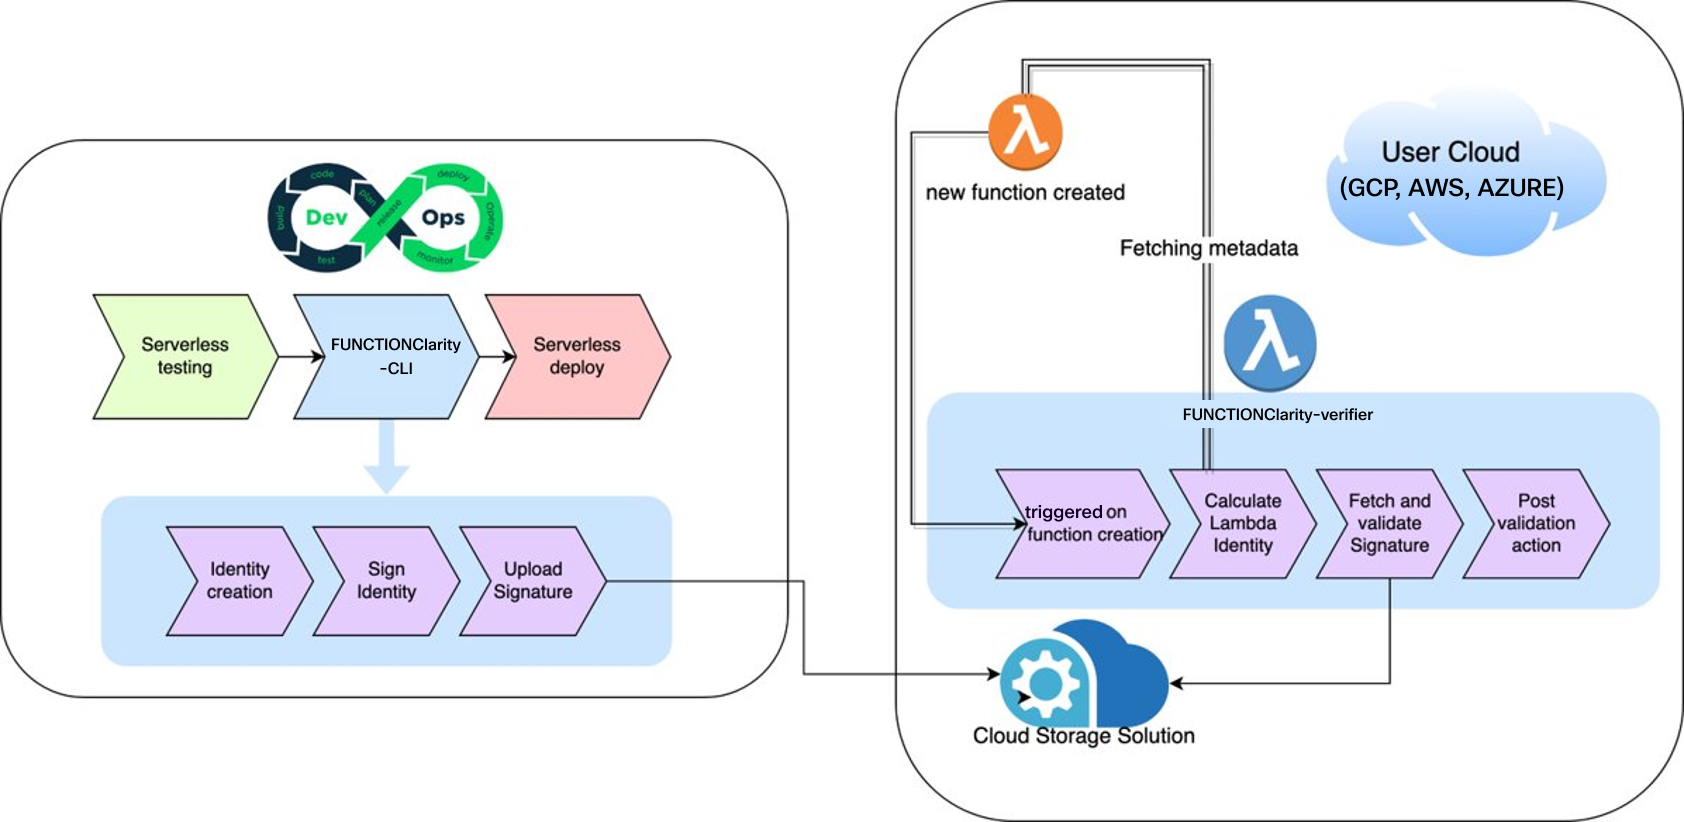
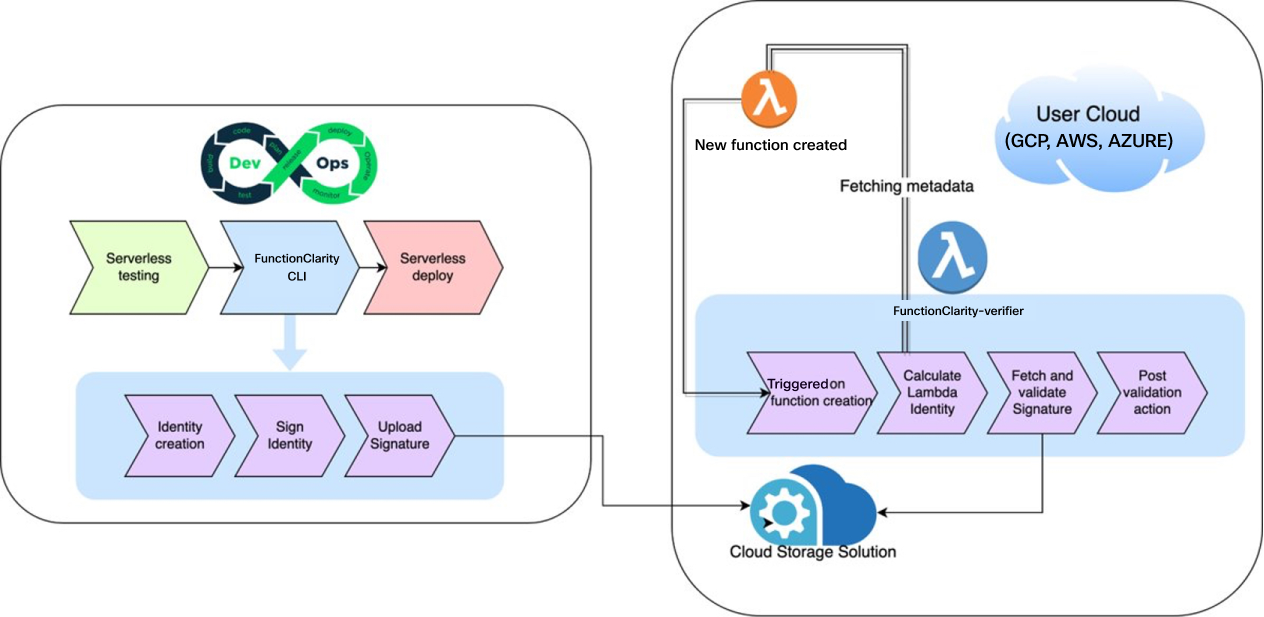
update image and nav bar (#18)
* update image and nav bar

* update links

diff --git a/components/globals/Navbar.tsx b/components/globals/Navbar.tsx
@@ -1,15 +1,23 @@
-import React from "react";
+import React, { useState } from "react";
 import Image from "next/image";
 import Link from "next/link";
 import styles from "../../styles/layout/Navbar.module.scss";
 import { useRouter } from "next/router";
-import { Colors, ImgPaths, RouteNames, RouterPaths } from "../../types/enums";
+import {
+  DocsRoutes,
+  ImgPaths,
+  RouteNames,
+  RouterPaths,
+} from "../../types/enums";
 import useWindowSize from "../../hooks/useWindowSize";
 import { AiFillGithub } from "react-icons/ai";
 import Container from "../Container";
+import NavDropdownItem from "./NavDropdownItem";
+import NavItem from "./NavItem";
 
 const Navbar = () => {
   const router = useRouter();
+  const [isDocsOpen, setIsDocsOpen] = useState(false);
 
   return (
     <div className={styles.Navbar}>
@@ -25,29 +33,36 @@ const Navbar = () => {
             </a>
           </Link>
           <div className={styles.NavbarNavlinkContainer}>
-            {Object.keys(RouteNames).map((path) => {
-              return (
-                <NavLink
-                  route={RouterPaths[path]}
-                  routeName={RouteNames[path]}
-                  key={path}
-                />
-              );
-            })}
-            <a
-              target="_blank"
-              href="https://github.com/apiclarity/apiclarity"
-              className={styles.NavbarNavlinkIconLink}
+            <NavItem
+              route={RouterPaths.Landing}
+              routeName={RouteNames.Landing}
+            />
+            <div
+              onMouseLeave={() => setIsDocsOpen(false)}
+              onMouseEnter={() => setIsDocsOpen(true)}
+              className={styles.NavbarNavlinkMenu}
             >
-              <AiFillGithub
-                className={styles.NavbarNavlinkIcon}
-                color={
-                  router.pathname === RouterPaths.Landing
-                    ? Colors.White
-                    : Colors.TextDark
-                }
-              />
-            </a>
+              <NavItem routeName={RouteNames.Docs} hasDropdown={true} />
+              {isDocsOpen && (
+                <div
+                  className={styles.NavbarNavlinkMenuDropDown}
+                >
+                  {Object.keys(DocsRoutes).map((item, i) => (
+                    <NavDropdownItem
+                      link={DocsRoutes[item]}
+                      text={item}
+                      internal={false}
+                      key={i}
+                    />
+                  ))}
+                </div>
+              )}
+            </div>
+            <NavItem
+              route={RouterPaths.Resources}
+              routeName={RouteNames.Resources}
+              openNewWindow={true}
+            />
           </div>
         </div>
       </Container>
@@ -55,35 +70,4 @@ const Navbar = () => {
   );
 };
 
-interface INavLinkProps {
-  route: RouterPaths;
-  routeName: RouteNames;
-}
-
-const NavLink = ({ route, routeName }: INavLinkProps) => {
-  const router = useRouter();
-  return (
-    <Link href={route}>
-      <a
-        style={{
-          color:
-            router.pathname === RouterPaths.Landing
-              ? Colors.White
-              : Colors.TextDark,
-          borderBottom:
-            router.pathname === route
-              ? `2px solid ${
-                  router.pathname === RouterPaths.Landing
-                    ? Colors.White
-                    : Colors.TextDark
-                }`
-              : "none",
-        }}
-        className={styles.NavbarNavlink}
-      >
-        {routeName}
-      </a>
-    </Link>
-  );
-};
 export default Navbar;

diff --git a/components/globals/NavItem.tsx b/components/globals/NavItem.tsx
@@ -1,0 +1,56 @@
+import React from "react";
+import styles from "../../styles/layout/Navbar.module.scss";
+import { useRouter } from "next/router";
+import Link from "next/link";
+import { Colors, ImgPaths, RouteNames, RouterPaths } from "../../types/enums";
+
+const NavItem = ({
+  link = "",
+  route = "",
+  openNewWindow = false,
+  routeName,
+  hasDropdown = false,
+}: {
+  link?: string;
+  route?: string;
+  routeName: string;
+  openNewWindow?: boolean;
+  hasDropdown?: boolean;
+}) => {
+  const router = useRouter();
+  return hasDropdown ? (
+    <div
+      style={{
+        color: Colors.White,
+        borderBottom:
+          router.pathname === route
+            ? `2px solid ${
+                router.pathname === RouterPaths.Landing
+                  ? Colors.White
+                  : Colors.TextDark
+              }`
+            : "none",
+      }}
+      className={styles.NavbarNavlink}
+    >
+      {routeName}
+    </div>
+  ) : (
+    <Link href={route}>
+      <a
+        style={{
+          color: Colors.White,
+          textDecoration: router.pathname === route ? "underline" : "none",
+          textUnderlineOffset: '.7rem',
+          textDecorationThickness: '2px'
+        }}
+        className={styles.NavbarNavlink}
+        target={openNewWindow ? "_blank" : "_self"}
+      >
+        {routeName}
+      </a>
+    </Link>
+  );
+};
+
+export default NavItem;

diff --git a/components/globals/NavDropdownItem.tsx b/components/globals/NavDropdownItem.tsx
@@ -1,0 +1,39 @@
+import React from "react";
+import styles from "../../styles/layout/Navbar.module.scss";
+import Link from "next/link";
+import { useRouter } from "next/router";
+
+const NavDropdownItem = ({
+    link,
+    text,
+    internal = false,
+  }: {
+    link?: string;
+    text: string;
+    disabled?: boolean;
+    internal?: boolean;
+  }) => {
+    const router = useRouter();
+    return internal ? (
+      <Link href={link}>
+        <a
+          className={
+            router.pathname === link
+              ? styles.PrimaryNavDropdownMenuItemActive
+              : styles.PrimaryNavDropdownMenuItem
+          }
+        >
+          {text}
+        </a>
+      </Link>
+    ) : (
+      <a
+        className={styles.PrimaryNavDropdownMenuItem}
+        href={link}
+        target="_blank"
+      >
+        {text}
+      </a>
+    );
+  };
+  export default NavDropdownItem;

diff --git a/styles/layout/Navbar.module.scss b/styles/layout/Navbar.module.scss
@@ -55,6 +55,30 @@
       display: flex;
       flex-direction: row;
     }
+    &Menu {
+      position: relative;
+      cursor: pointer;
+      padding-bottom: 2rem;
+
+      &DropDown {
+        // @include FlexCol($align-items: flex-start);
+        display: flex;
+        flex-direction: column;
+        align-items: flex-start;
+        gap: 1rem;
+        z-index: 10;
+        position: absolute;
+        left: 3rem;
+        top: 1rem;
+        margin-top: 2rem;
+        width: 200px;
+        background-color: rgba(255, 255, 255, 0.8);
+        box-shadow: 0px 4px 16px rgba(255, 255, 255, 0.07);
+        padding: 1rem;
+        border-radius: .5rem;
+      }
+
+    }
 
     &Icon {
       width: 1.6rem;

diff --git a/components/pages/home/WhatIsSection.tsx b/components/pages/home/WhatIsSection.tsx
@@ -66,11 +66,11 @@ const WhatIsSection = ({
               </ul>
               <h2 className={styles.Header}>Check out the code:</h2>
               <div className={styles.ButtonWrapper}>
-                <button className={styles.Button}>
+                <a className={styles.Button} href={githubLink} target='_blank' >
                   <AiFillGithub size={25} style={{ marginRight: 5 }} />
                   Github
-                </button>
-                <button className={styles.Button}>Documentation</button>
+                </a>
+                <a className={styles.Button} href={documentationLink} target='_blank'>Documentation</a>
               </div>
             </div>
           </div>

diff --git a/types/enums.ts b/types/enums.ts
@@ -33,7 +33,7 @@ export enum SectionHeaders {
 
 export enum RouterPaths {
   Landing = "/",
-  Resources = "/resources",
+  Resources = "https://www.apiclarity.io/resources",
   // Blog = "/blog",
   About = "/about",
   Docs = "/docs",
@@ -43,6 +43,12 @@ export enum RouteNames {
   Landing = "Home",
   Docs = "Docs",
   Resources = "Resources",
+}
+
+export enum DocsRoutes {
+  FunctionClarity = "https://github.com/openclarity/functionclarity/blob/main/README.md",
+  KubeClarity = "https://github.com/openclarity/kubeclarity/blob/main/README.md",
+  APIClarity = "https://github.com/openclarity/apiclarity.io/blob/main/README.md",
 }
 
 export enum ImgPaths {

diff --git a/data/whatIsData.tsx b/data/whatIsData.tsx
@@ -11,8 +11,8 @@ export const whatIsData = [
       "Keyless and key pair support",
       "Multiple validation feedback support (detect, block and notification)",
     ],
-    githubLink: "https://github.com/openclarity",
-    documentationLink: "https://github.com/openclarity",
+    githubLink: "https://github.com/openclarity/functionclarity",
+    documentationLink: "https://github.com/openclarity/functionclarity/blob/main/README.md",
     mainColor: "#f0ad42",
     thumbnail: ImgPaths.DefaultThumbnail,
     diagram: ImgPaths.FunctionClarityDiagram,

diff --git a/components/pages/home/Card.tsx b/components/pages/home/Card.tsx
@@ -22,8 +22,8 @@ const Card = ({ logo, subLogo, description, link }: Props) => {
         <div className={styles.Details}>
           <img src={subLogo} alt="sublogo" className={styles.Sublogo} />
           <p className={styles.Description}>{description}</p>
-          <Link href={link}>
-            <a className={styles.Link}>Learn more {">"}</a>
+          <Link href={link} >
+            <a target='_blank' className={styles.Link}>Learn more {">"}</a>
           </Link>
         </div>
       </div>

diff --git a/styles/components/WhatIsSection.module.scss b/styles/components/WhatIsSection.module.scss
@@ -56,6 +56,14 @@
   justify-content: center;
   font-size: 20px;
   padding: 5px 20px;
+  background-color: #e8e8e8;
+  border: 1px solid black;
+  border-radius: 5px;
+  cursor: pointer;
+
+  &:hover {
+    background-color: #d9d9d9;
+  }
 
   &Wrapper {
     display: flex;
